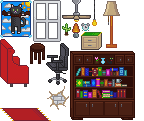
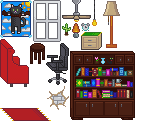
Fix some web version bugs

Changed region(s): [[0.8611, 0.5702, 0.9444, 0.6446], [0.8611, 0.7438, 0.9167, 0.8182], [0.8611, 0.6694, 0.9444, 0.719]]

diff --git a/Assets/_Project/Scripts/General/Managers/Save/FileManger/SaveFileManager.cs b/Assets/_Project/Scripts/General/Managers/Save/FileManger/SaveFileManager.cs
@@ -2,21 +2,21 @@ using System;
 using System.IO;
 using UnityEngine;
 
-public class SaveFileManager<TData>
-    where TData : ISaveable {
-
-    private readonly JsonSerializer _serializer = new();
+public class SaveFileManager<TData> where TData : ISaveable {
+    protected readonly JsonSerializer _serializer = new();
     private readonly string _dataPath = Application.persistentDataPath;
-    private readonly string _filePath = Application.persistentDataPath;
-    private readonly string _fileName;
-    private const string _fileExtension = "nyt";
+
+    protected readonly string _filePath;
+    protected readonly string _fileName;
+    protected const string _fileExtension = "nyt";
 
     public SaveFileManager(string fileName) {
         _fileName = fileName;
         if (_fileName.Contains("/"))
             FractionFileName();
 
-        _filePath = _dataPath + "/" + string.Concat(_fileName, ".", _fileExtension);
+        string filePath = string.Concat(_fileName, ".", _fileExtension);
+        _filePath = _dataPath + "/" + filePath;
     }
 
     private void FractionFileName() {
@@ -28,25 +28,27 @@ public class SaveFileManager<TData>
         }
     }
 
-    public void Save(TData data) {
-        File.WriteAllText(_filePath, _serializer.SerializeCoded(data));
+    public virtual void Save(TData data) {
+        string serializedData = _serializer.SerializeCoded(data);
+        File.WriteAllText(_filePath, serializedData);
     }
 
-    public TData Load() {
+    public virtual TData Load() {
         if (!IsFileExists())
             throw new NullReferenceException($"File {_fileName} not exist.");
 
-        return _serializer.DeserializeCoded<TData>(File.ReadAllText(_filePath));
+        string serializedData = File.ReadAllText(_filePath);
+        return _serializer.DeserializeCoded<TData>(serializedData);
     }
 
-    public void Delete() {
+    public virtual void Delete() {
         if (!IsFileExists())
             return;
 
         File.Delete(_filePath);
     }
 
-    public bool IsFileExists() {
+    public virtual bool IsFileExists() {
         return File.Exists(_filePath);
     }
 }

diff --git a/Assets/_Project/Scripts/General/Managers/Save/FileManger/WebSaveFileManager.cs b/Assets/_Project/Scripts/General/Managers/Save/FileManger/WebSaveFileManager.cs
@@ -1,0 +1,35 @@
+using System;
+using UnityEngine;
+
+public class WebSaveFileManager<TData> : SaveFileManager<TData> where TData : ISaveable {
+    private readonly string _prefsFilePath;
+
+    public WebSaveFileManager(string fileName) : base(fileName) {
+        _prefsFilePath = string.Concat(_fileName, ".", _fileExtension);
+    }
+
+    public override void Save(TData data) {
+        string serializedData = _serializer.SerializeCoded(data);
+        PlayerPrefs.SetString(_prefsFilePath, serializedData);
+        PlayerPrefs.Save();
+    }
+
+    public override TData Load() {
+        if (!IsFileExists())
+            throw new NullReferenceException($"File {_fileName} not exist.");
+
+        string serializedData = PlayerPrefs.GetString(_prefsFilePath);
+        return _serializer.DeserializeCoded<TData>(serializedData);
+    }
+
+    public override void Delete() {
+        if (!IsFileExists())
+            return;
+
+        PlayerPrefs.DeleteKey(_prefsFilePath);
+    }
+
+    public override bool IsFileExists() {
+        return PlayerPrefs.HasKey(_prefsFilePath);
+    }
+}

diff --git a/Assets/_Project/Scripts/General/UI/AnimatedText/AnimatedText.cs b/Assets/_Project/Scripts/General/UI/AnimatedText/AnimatedText.cs
@@ -11,7 +11,7 @@ public class AnimatedText : LocalizedText {
 
     public bool IsAnimated => _isAnimated;
 
-    public event Action TextUpdated;
+    public event Action TextAnimated;
 
     public override void UpdateText() {
         base.UpdateText();
@@ -46,7 +46,7 @@ public class AnimatedText : LocalizedText {
         _lastCharIndex++;
         _text.text = _targetText[.._lastCharIndex];
         _nowTime = 0;
-        TextUpdated?.Invoke();
+        TextAnimated?.Invoke();
     }
 
     public void StopAnimation() {
@@ -55,11 +55,11 @@ public class AnimatedText : LocalizedText {
 
         _isAnimated = false;
         _text.text = _targetText;
-        TextUpdated?.Invoke();
+        TextAnimated?.Invoke();
     }
 
     private void ForceStopAnimation() {
         _isAnimated = false;
-        TextUpdated?.Invoke();
+        TextAnimated?.Invoke();
     }
 }

diff --git a/Assets/_Project/Scripts/General/Managers/Settings/Localization/LocalizationManager.cs b/Assets/_Project/Scripts/General/Managers/Settings/Localization/LocalizationManager.cs
@@ -14,6 +14,7 @@ public class LocalizationManager : Singleton<LocalizationManager>, IBindable<Gam
     private bool _isLocalesLoaded;
 
     public int OptionsCount => _locales.Count;
+    public bool IsLocalesLoaded => _isLocalesLoaded;
     public int DefaultValue => _locales.IndexOf(_defaultLocale);
 
     public event Action LocalizationChanged;
@@ -44,7 +45,7 @@ public class LocalizationManager : Singleton<LocalizationManager>, IBindable<Gam
 
     public async Task<string> GetLocalization(string table, string key, Dictionary<string, string> arguments = null) {
         if (!_isLocalesLoaded)
-            return key;
+            return string.Empty;
 
         if (arguments != null) {
             Dictionary<string, string> localizedArguments = new();

diff --git a/Assets/_Project/Scripts/General/Platform/PlatformSpecificObject.cs b/Assets/_Project/Scripts/General/Platform/PlatformSpecificObject.cs
@@ -10,16 +10,13 @@ public class PlatformSpecificObject : MonoBehaviour {
     }
 
     private bool GetState() {
-        bool isMobile = Application.isMobilePlatform;
-        bool isWeb = Application.platform == RuntimePlatform.WebGLPlayer;
-
-        if (!_forMobile && isMobile)
+        if (!_forMobile && PlatformManager.IsMobile)
             return false;
 
-        if (!_forWeb && isWeb)
+        if (!_forWeb && PlatformManager.IsWeb)
             return false;
 
-        if (!_forDesktop && !isMobile && !isWeb)
+        if (!_forDesktop && !PlatformManager.IsMobile && !PlatformManager.IsWeb)
             return false;
 
         return true;

diff --git a/Assets/_Project/Scripts/General/Managers/Settings/Localization/LocalizedText.cs b/Assets/_Project/Scripts/General/Managers/Settings/Localization/LocalizedText.cs
@@ -1,3 +1,4 @@
+using System;
 using System.Collections.Generic;
 using TMPro;
 using UnityEngine;
@@ -10,6 +11,8 @@ public class LocalizedText : MonoBehaviour {
 
     protected string _key;
     protected readonly Dictionary<string, string> _arguments = new();
+
+    public event Action TextChanged;
 
     public string Table => _table;
 
@@ -32,6 +35,7 @@ public class LocalizedText : MonoBehaviour {
         CheckText();
         string text = await LocalizationManager.Instance.GetLocalization(_table, _key, _arguments);
         _text.text = text;
+        TextChanged?.Invoke();
     }
 
     protected void CheckText() {

diff --git a/Assets/_Project/Scripts/General/Managers/Clue/ClueRenderer.cs b/Assets/_Project/Scripts/General/Managers/Clue/ClueRenderer.cs
@@ -12,6 +12,7 @@ public class ClueRenderer : MonoBehaviour {
 
     private void Awake() {
         _buttonRect = _button.GetComponent<RectTransform>();
+        _messageText.TextChanged += UpdatePosition;
     }
 
     public void StartRenderClue(ClueTemplate clue) {
@@ -20,8 +21,6 @@ public class ClueRenderer : MonoBehaviour {
         _messageText.SetText(_template.Message);
         _button.gameObject.SetActive(_template.IsButtonVisible);
         _buttonText.SetText(_template.ButtonMessage);
-
-        UpdatePosition();
     }
 
     private void UpdatePosition() {

diff --git a/Assets/_Project/Scripts/General/Managers/Save/SaveManager.cs b/Assets/_Project/Scripts/General/Managers/Save/SaveManager.cs
@@ -11,7 +11,10 @@ public abstract class SaveManager<TData> : MonoBehaviour
     protected abstract string _fileName { get; }
 
     private void Awake() {
-        _dataService = new SaveFileManager<TData>(_fileName);
+        if (PlatformManager.IsWeb)
+            _dataService = new WebSaveFileManager<TData>(_fileName);
+        else
+            _dataService = new SaveFileManager<TData>(_fileName);
     }
 
     private void Start() {

diff --git a/Assets/_Project/Scripts/General/UI/ExtendedComponents/CutoutMaskUI.cs b/Assets/_Project/Scripts/General/UI/ExtendedComponents/CutoutMaskUI.cs
@@ -5,7 +5,7 @@ using UnityEngine.UI;
 public class CutoutMaskUI : Image {
     public override Material materialForRendering {
         get {
-            Material material = new(base.materialForRendering);
+            Material material = base.materialForRendering;
             material.SetFloat("_StencilComp", (int)CompareFunction.NotEqual);
             return material;
         }

diff --git a/Assets/_Project/Scripts/General/Managers/Settings/BackgroundRun/BackgroundRunManager.cs b/Assets/_Project/Scripts/General/Managers/Settings/BackgroundRun/BackgroundRunManager.cs
@@ -7,7 +7,7 @@ public class BackgroundRunManager : MonoBehaviour, IBindable<GameSettingsData>, 
 
     public bool DefaultValue {
         get {
-            if (Application.isMobilePlatform || Application.platform == RuntimePlatform.WebGLPlayer)
+            if (PlatformManager.IsNotDesktop)
                 return false;
             return _defaultValue;
         }

diff --git a/Assets/_Project/Scripts/General/Managers/Settings/Screen/Size/ScreenSizeManager.cs b/Assets/_Project/Scripts/General/Managers/Settings/Screen/Size/ScreenSizeManager.cs
@@ -34,7 +34,7 @@ public class ScreenSizeManager : MonoBehaviour, IBindable<VideoSettingsData>, IS
 
     public void UpdateValue() {
         int height, width;
-        if (Application.platform == RuntimePlatform.WebGLPlayer) {
+        if (PlatformManager.IsWeb) {
             height = Screen.height;
             width = Screen.width;
         } else {

diff --git a/Assets/_Project/Scripts/General/Managers/Settings/Screen/Mode/ScreenModeManager.cs b/Assets/_Project/Scripts/General/Managers/Settings/Screen/Mode/ScreenModeManager.cs
@@ -7,7 +7,7 @@ public class ScreenModeManager : MonoBehaviour, IBindable<VideoSettingsData>, IS
 
     public int DefaultValue {
         get {
-            if (Application.platform == RuntimePlatform.WebGLPlayer)
+            if (PlatformManager.IsWeb)
                 return (int)ScreenMode.Windowed;
             return (int)_defaultMode;
         }
